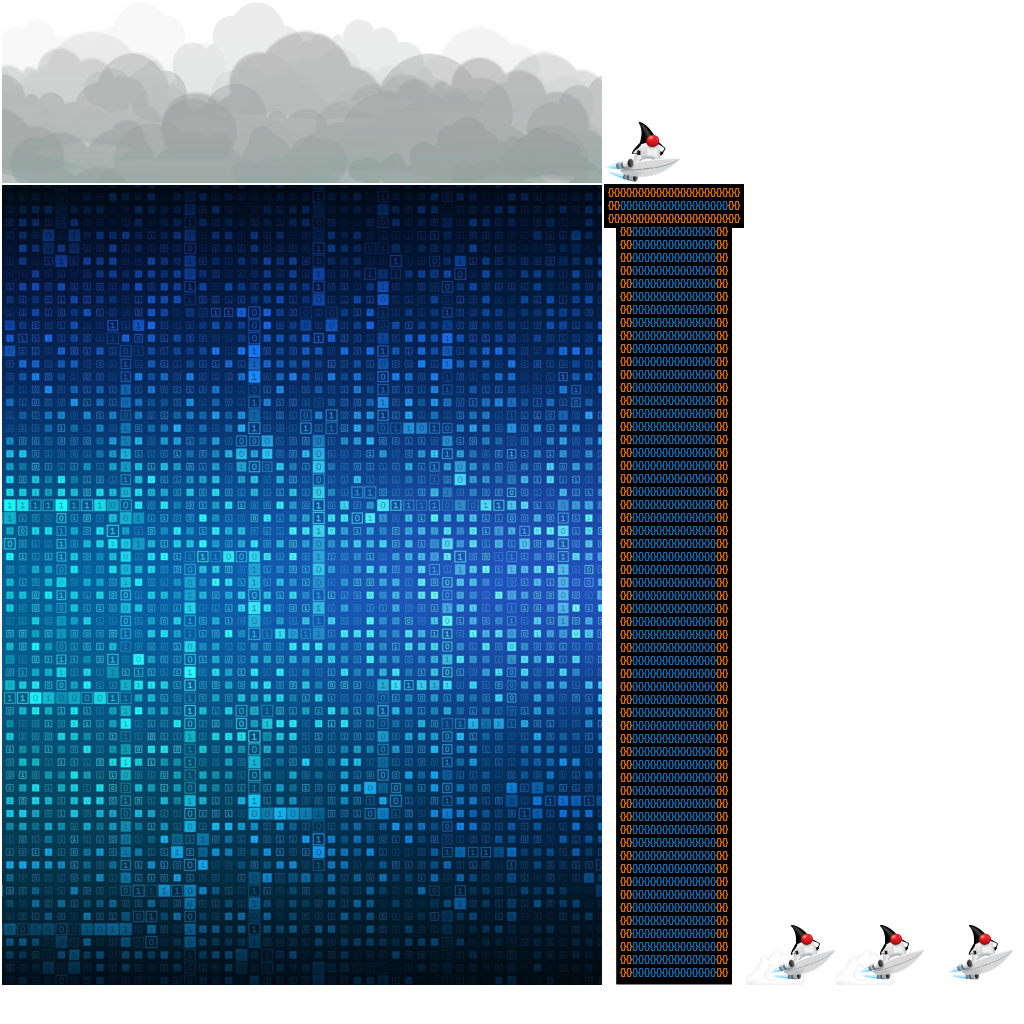
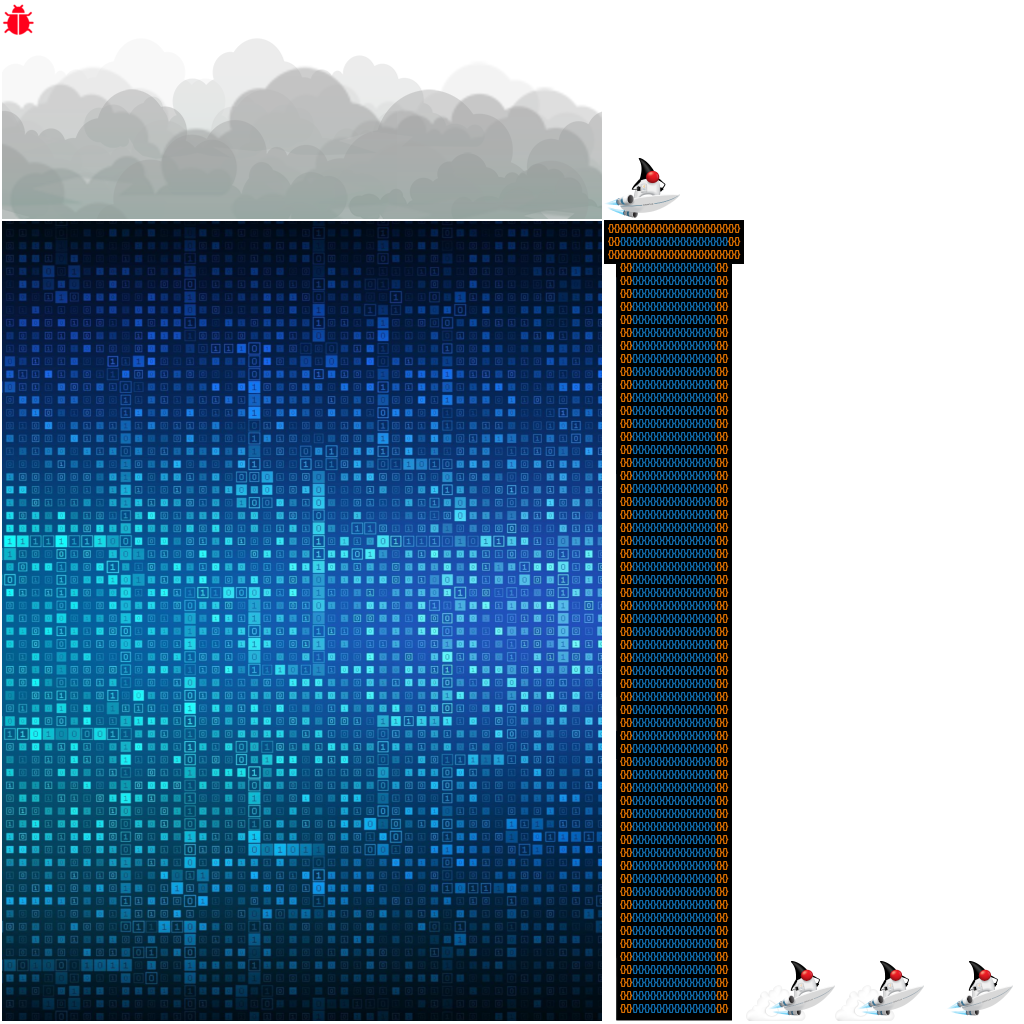
Introduced a working bugg!

diff --git a/core/src/main/se/yrgo/jumpyduke/screens/PlayScreen.java b/core/src/main/se/yrgo/jumpyduke/screens/PlayScreen.java
@@ -13,10 +13,7 @@ import com.badlogic.gdx.utils.ScreenUtils;
 import com.badlogic.gdx.utils.viewport.StretchViewport;
 import se.yrgo.jumpyduke.DukeGame;
 import se.yrgo.jumpyduke.DukeState;
-import se.yrgo.jumpyduke.actors.CloudLower;
-import se.yrgo.jumpyduke.actors.Duke;
-import se.yrgo.jumpyduke.actors.Pipe;
-import se.yrgo.jumpyduke.actors.PipeDuo;
+import se.yrgo.jumpyduke.actors.*;
 import se.yrgo.jumpyduke.assets.Assets;
 import se.yrgo.jumpyduke.config.Configurations;
 import se.yrgo.jumpyduke.player.Player;
@@ -29,6 +26,7 @@ public class PlayScreen extends ScreenAdapter {
     private CloudLower cloudLower2;
     private DukeGame dukeGame;
     private Duke duke;
+    private Bugg bugg;
 
     private Stage guiStage;
     private Stage playStage;
@@ -49,12 +47,13 @@ public class PlayScreen extends ScreenAdapter {
         this.player = player;
         cam = new OrthographicCamera(Configurations.GAME_WIDTH, Configurations.GAME_HEIGHT);
         duke = new Duke();
+        bugg = new Bugg();
         playStage = new Stage(new StretchViewport(Configurations.GAME_WIDTH, Configurations.GAME_HEIGHT, cam));
         guiStage = new Stage(new StretchViewport(Configurations.GAME_WIDTH, Configurations.GAME_HEIGHT));
 
         playerNameLabel = new Label(player.getUserName(), Assets.skin);
         playerNameLabel.setPosition(Configurations.GAME_WIDTH / 2, (float) (Configurations.GAME_HEIGHT * 0.85), Align.center);
-        playStage.addActor(playerNameLabel);
+
 
         cloudLower = new CloudLower();
         cloudLower2 = new CloudLower();
@@ -63,9 +62,11 @@ public class PlayScreen extends ScreenAdapter {
 
         listOfPipes = new ArrayList<>();
         listOfPipeDuos = new ArrayList<>();
-        initPipeActors();
+        initPipes();
 
         playStage.addActor(new Image(Assets.background));
+        playStage.addActor(playerNameLabel);
+        playStage.addActor(bugg);
         playStage.addActor(duke);
         addPipeActors();
         playStage.addActor(cloudLower2);
@@ -130,14 +131,14 @@ public class PlayScreen extends ScreenAdapter {
         reInitPipeDuosOnScreen();
     }
 
-    private void initPipeActors() {
+    private void initPipes() {
 
         for (int i = 0; i < 4; ++i) {
             listOfPipes.add(new Pipe());
             listOfPipes.add(new Pipe());
         }
         for (int i = 0; i < 6; i = i + 2) {
-            listOfPipeDuos.add(new PipeDuo(listOfPipes.get(i), listOfPipes.get(i + 1)));
+            listOfPipeDuos.add(new PipeDuo(listOfPipes.get(i), listOfPipes.get(i + 1), new Bugg()));
         }
 
         listOfPipeDuos.get(0).initFirstPair();
@@ -149,6 +150,7 @@ public class PlayScreen extends ScreenAdapter {
         for (int i = 0; i < 3; ++i) {
             playStage.addActor(listOfPipeDuos.get(i).getTopPipe());
             playStage.addActor(listOfPipeDuos.get(i).getBottomPipe());
+            playStage.addActor(listOfPipeDuos.get(i).getBugg());
         }
 
     }

diff --git a/core/src/main/se/yrgo/jumpyduke/actors/Bugg.java b/core/src/main/se/yrgo/jumpyduke/actors/Bugg.java
@@ -1,5 +1,39 @@
 package se.yrgo.jumpyduke.actors;
 
-public class Bugg {
+import com.badlogic.gdx.graphics.g2d.Batch;
+import com.badlogic.gdx.graphics.g2d.TextureRegion;
+import com.badlogic.gdx.math.Rectangle;
+import com.badlogic.gdx.math.Vector2;
+import com.badlogic.gdx.scenes.scene2d.Actor;
+import se.yrgo.jumpyduke.DukeState;
+import se.yrgo.jumpyduke.assets.Assets;
+import se.yrgo.jumpyduke.config.Configurations;
 
+public class Bugg extends Actor {
+    private TextureRegion buggTextureRegion;
+    private Rectangle buggRectangle;
+
+    private Vector2 buggVelocity;
+
+    public Bugg() {
+        this.buggTextureRegion = Assets.bugg;
+        setWidth(buggTextureRegion.getRegionWidth());
+        setHeight(buggTextureRegion.getRegionHeight());
+        buggVelocity = new Vector2(Configurations.PIPE_VELOCITY_ALIVE, 0);
+    }
+
+    @Override
+    public void act(float delta) {
+        if (Duke.getDukeState() == DukeState.ALIVE) {
+            setX(getX() + buggVelocity.x * delta);
+           // buggRectangle.setPosition(getX(), getY());
+        }
+    }
+
+    @Override
+    public void draw(Batch batch, float parentAlpha) {
+        batch.draw(buggTextureRegion, getX(), getY(), getOriginX(), getOriginY(),
+                getWidth(), getHeight(), getScaleX(), getScaleY(), getRotation());
+
+    }
 }

diff --git a/core/src/main/se/yrgo/jumpyduke/actors/PipeDuo.java b/core/src/main/se/yrgo/jumpyduke/actors/PipeDuo.java
@@ -9,10 +9,12 @@ public class PipeDuo {
     private Pipe bottomPipe;
     private Pipe topPipe;
     private double randomPipePlacement;
+    private Bugg bugg;
 
-    public PipeDuo(Pipe bottomPipe, Pipe topPipe) {
+    public PipeDuo(Pipe bottomPipe, Pipe topPipe, Bugg bugg) {
         this.bottomPipe = bottomPipe;
         this.topPipe = topPipe;
+        this.bugg = bugg;
     }
 
     public void initFirstPair() {
@@ -42,6 +44,12 @@ public class PipeDuo {
                         (Configurations.GAP_SIZE / 2)), Align.bottomLeft);
         bottomPipe.setPosition(gameWidth, (float) (randomPipePlacement -
                         (Configurations.GAP_SIZE / 2)), Align.topLeft);
+        bugg.setPosition(bottomPipe.getX(Align.center) + Configurations.PIPE_SPACING / 2, (float) getBuggRandomYDisPlacement(), Align.center);
+    }
+
+    private double getBuggRandomYDisPlacement() {
+        return ThreadLocalRandom.current().
+                nextDouble(Configurations.BUGG_BOTTOM_LEVEL, Configurations.BUGG_TOP_LEVEL);
     }
 
     public void reInitialize() {
@@ -59,5 +67,9 @@ public class PipeDuo {
 
     public Pipe getTopPipe() {
         return topPipe;
+    }
+
+    public Bugg getBugg() {
+        return bugg;
     }
 }

diff --git a/core/src/main/se/yrgo/jumpyduke/assets/Assets.java b/core/src/main/se/yrgo/jumpyduke/assets/Assets.java
@@ -7,6 +7,7 @@ import com.badlogic.gdx.graphics.g2d.SpriteBatch;
 import com.badlogic.gdx.graphics.g2d.TextureAtlas;
 import com.badlogic.gdx.graphics.g2d.TextureRegion;
 import com.badlogic.gdx.scenes.scene2d.ui.Skin;
+import se.yrgo.jumpyduke.actors.Bugg;
 
 public class Assets {
 
@@ -18,7 +19,7 @@ public class Assets {
     public static TextureRegion pipe;
     public static BitmapFont bitmapFont;
     public static Skin skin;
-    public static Texture bugg;
+    public static TextureRegion bugg;
 
     private Assets() {
     }
@@ -31,7 +32,7 @@ public class Assets {
         pipe = textureAtlas.findRegion("Pipe_bottom_new_140x801");
         bitmapFont = new BitmapFont(Gdx.files.internal("font/font.fnt"), Gdx.files.internal("font/font_0.png"), false);
         skin = new Skin(Gdx.files.internal("skin/mySkin.json"));
-        bugg = new Texture("bugg.png");
+        bugg = textureAtlas.findRegion("Bugg");
     }
 
     public static void loadSpriteBatch() {

diff --git a/core/src/main/se/yrgo/jumpyduke/config/Configurations.java b/core/src/main/se/yrgo/jumpyduke/config/Configurations.java
@@ -18,8 +18,8 @@ public class Configurations {
     public static final double PIPE_GAP_TOP_LEVEL = GAME_HEIGHT * 0.75f;
     public static final double PIPE_GAP_BOTTOM_LEVEL = GAME_HEIGHT * 0.25f;
     public static final int PIPE_SPACING = 350;
-
-
+    public static final double BUGG_TOP_LEVEL = GAME_HEIGHT * 0.65f;
+    public static final double BUGG_BOTTOM_LEVEL = GAME_HEIGHT * 0.35f;
 
 
     public static Vector2 dukeStartingPostition = new Vector2(

diff --git a/core/src/main/se/yrgo/jumpyduke/actors/Pipe.java b/core/src/main/se/yrgo/jumpyduke/actors/Pipe.java
@@ -33,8 +33,6 @@ public class Pipe extends Actor {
         if (Duke.getDukeState() == DukeState.ALIVE) {
             setX(getX() + pipeVelocity.x * delta);
             pipeRectangle.setPosition(getX(), getY());
-
-
         }
     }
 
